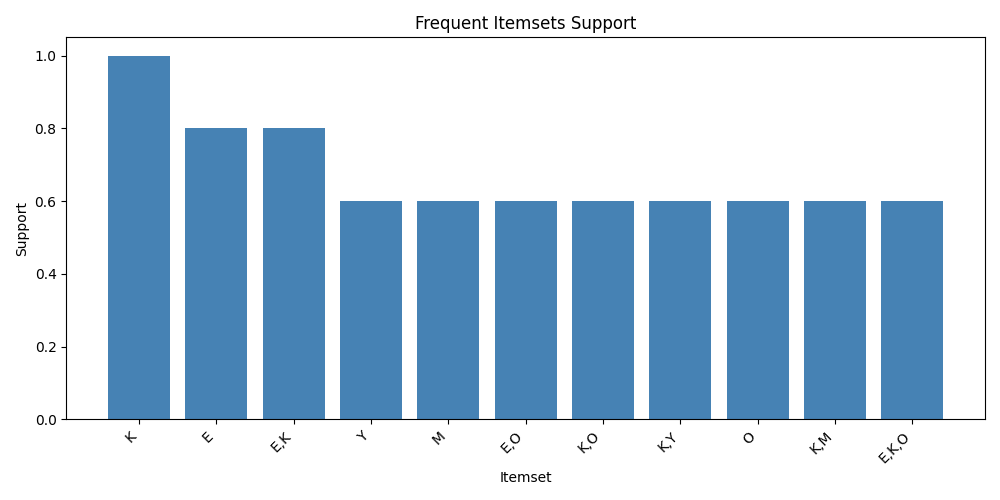
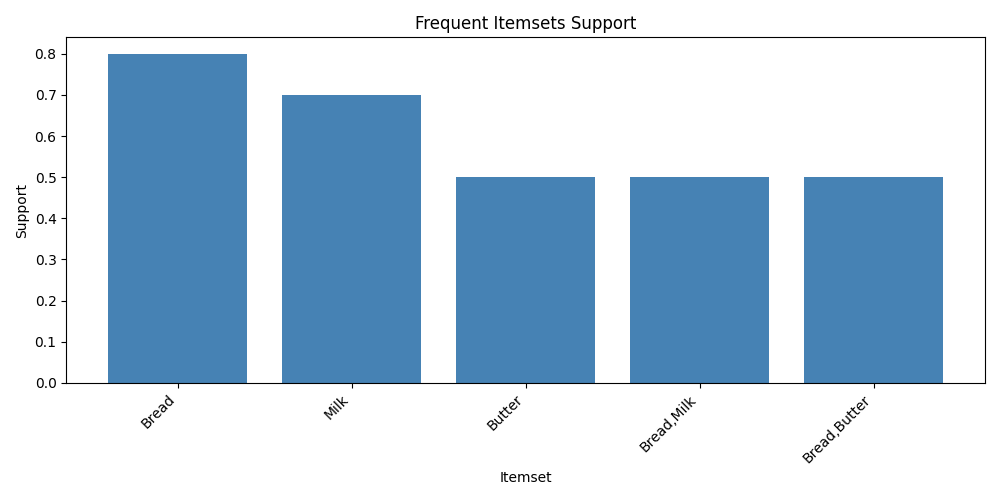
feat: implement Apriori analysis and visualization

diff --git a/main.py b/main.py
@@ -2,7 +2,7 @@ from pathlib import Path
 
 from src.data_loader import read_transactions
 from src.apriori import apriori
-from src.generate_rules import generate_association_rules
+from src.association_rules import generate_association_rules
 from src.visualization import plot_frequent_itemsets
 
 BASE_DIR = Path(__file__).resolve().parent

diff --git a/src/interface.py b/src/interface.py
@@ -2,7 +2,7 @@ import pandas as pd
 import streamlit as st
 from src.data_loader import read_transactions
 from src.apriori import apriori
-from src.generate_rules import generate_association_rules
+from src.association_rules import generate_association_rules
 from src.visualization import plot_frequent_itemsets
 
 
